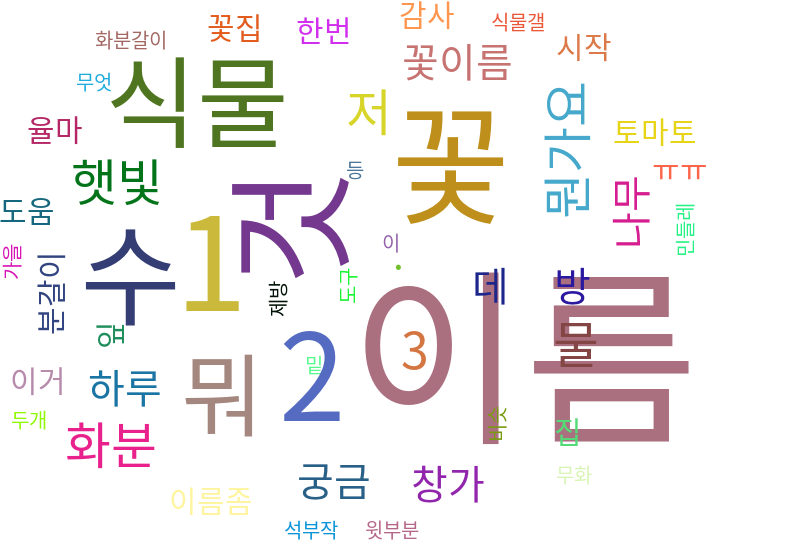
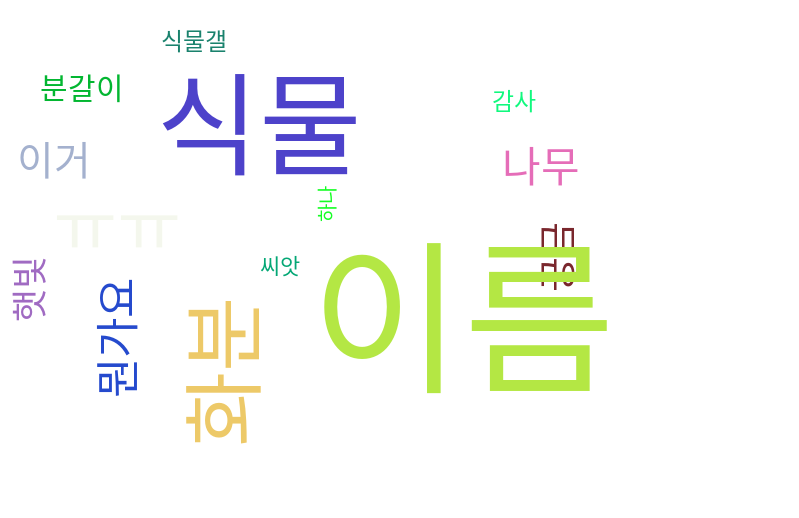
Update textcrawler and examples

diff --git a/textcrawler.py b/textcrawler.py
@@ -2,6 +2,7 @@ from bs4 import BeautifulSoup
 import urllib.request
 import time
 import random
+import sys
 
 class TextCrawler:
     def __init__(self, gall_name, page_number):
@@ -11,7 +12,7 @@ class TextCrawler:
 
     def crawl(self):
         page = 1
-        text = ''
+        f = open('data.txt', 'w')
 
         while page <= self.page_number:
             url_open = urllib.request.urlopen(self.list_url + 
@@ -21,14 +22,14 @@ class TextCrawler:
             notice_list = soup.findAll('td', {'class':'t_notice'})
             subject_list = soup.findAll('td', {'class':'t_subject'})
 
-            for i in range(0, len(notice_list)):
+            for i in range(0, len(notice_list)):    # 공지사항 제거
                 if notice_list[0].text == '공지':
                     notice_list.pop(0)
                     subject_list.pop(0)
 
-            for subject in subject_list:
+            for subject in subject_list:    # 제목 저장
+                f.write(subject.text + '\n')
                 print(subject.text)
-                text += subject.text + '\n'
 
             random_number = random.randrange(1,5)
             print('%d page subject crawling complete. %d sec sleep...'\
@@ -44,8 +45,8 @@ class TextCrawler:
                 content = soup.find('div', {'class':'s_write'})
                 content = content.table.tr.td.text
 
+                f.write(content + '\n')     # 본문 저장
                 print(content)
-                text += content + '\n'
 
                 random_number = random.randrange(1,5)
                 print('%s content crawling complete. %d sec sleep...'\
@@ -54,4 +55,15 @@ class TextCrawler:
 
             page += 1
 
-        return text
+        f.close()
+
+if __name__ == '__main__':
+    if len(sys.argv) != 3:
+        print('python3 wordcloud.py [GALL_NAME] [PAGE_NUMBER]')
+        sys.exit()
+
+    gall_name = str(sys.argv[1])
+    page_number = int(sys.argv[2])
+    t = TextCrawler(gall_name, page_number)
+    t.crawl()
+    

diff --git a/examples/wordcloud.py b/examples/wordcloud.py
@@ -8,20 +8,34 @@ import webbrowser
 
 def get_text(gall_name, page_number):
     t = TextCrawler(gall_name, page_number)
-    text = t.crawl()
+    t.crawl()
 
+    f = open('data.txt', 'r')
+    text = f.read()
+    f.close()
+    
     return text
 
-def get_tags(text, ntags=50, multiplier=10):
+def get_tags(text, ntags=50, multiplier=2):
     h = Hannanum()
     nouns = h.nouns(text)
-    count = Counter(nouns)
+    long_nouns = list()
+    for n in nouns:
+        if len(n) >= 2: # 길이가 2 이상인 명사만 출력
+            long_nouns.append(n)
+
+    count = Counter(long_nouns)
+    word_list = list()
+    for w in count.most_common(ntags):
+        if w[1] >= 10:  # 10번 이상 나온 명사만 출력
+            print(w)
+            word_list.append(w)
 
     r  = lambda: random.randint(0, 255)
     color = lambda: (r(), r(), r())
 
     return [{'color': color(), 'tag': n, 'size': c*multiplier}\
-                for n, c in count.most_common(ntags)]
+                for n, c in word_list]
 
 def draw_cloud(tags, filename, fontname='Noto Sans CJK', size=(800, 600)):
     pytagcloud.create_tag_image(tags, filename, fontname=fontname, size=size)
